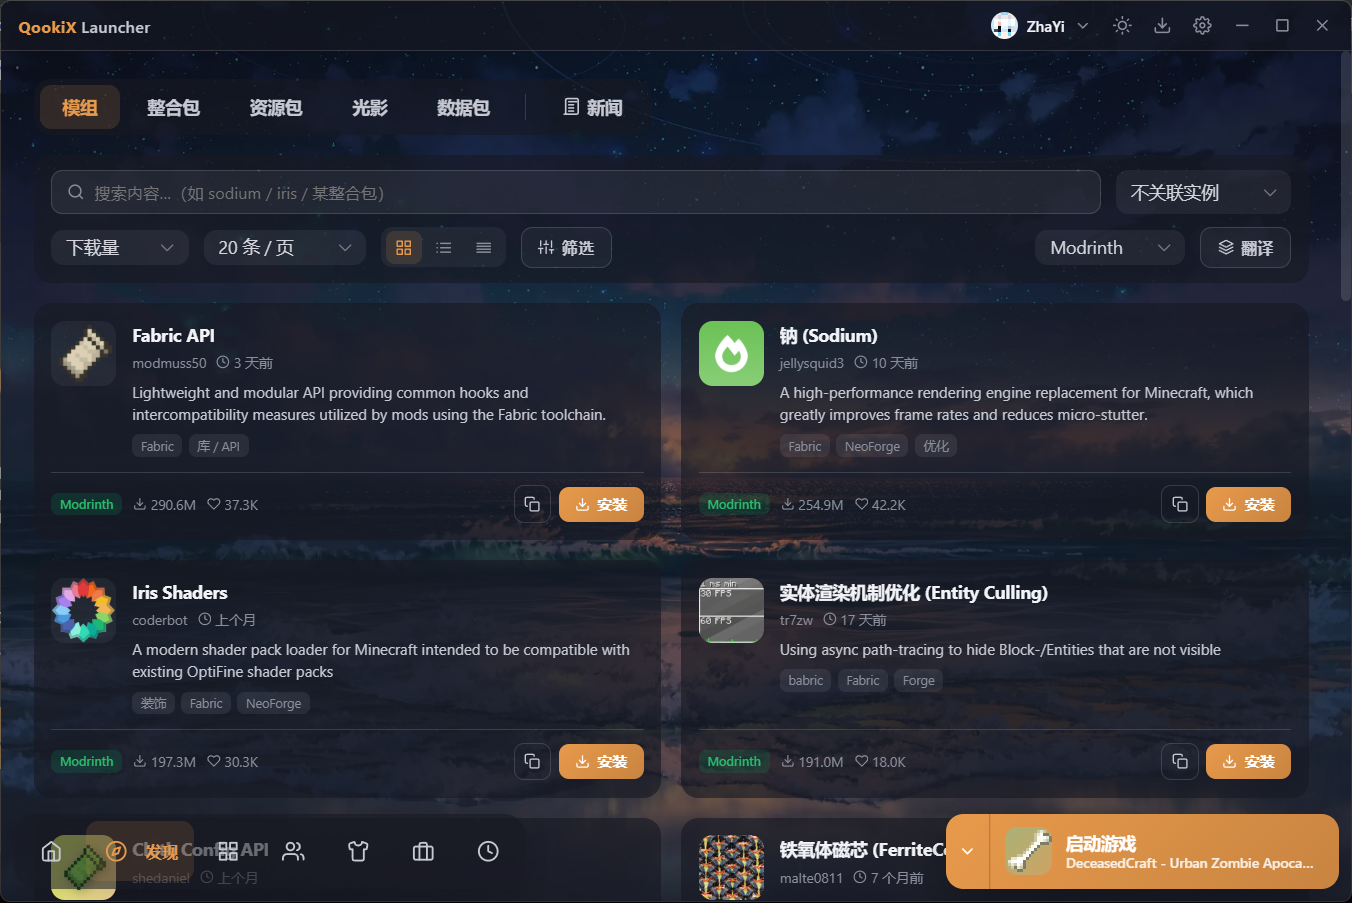
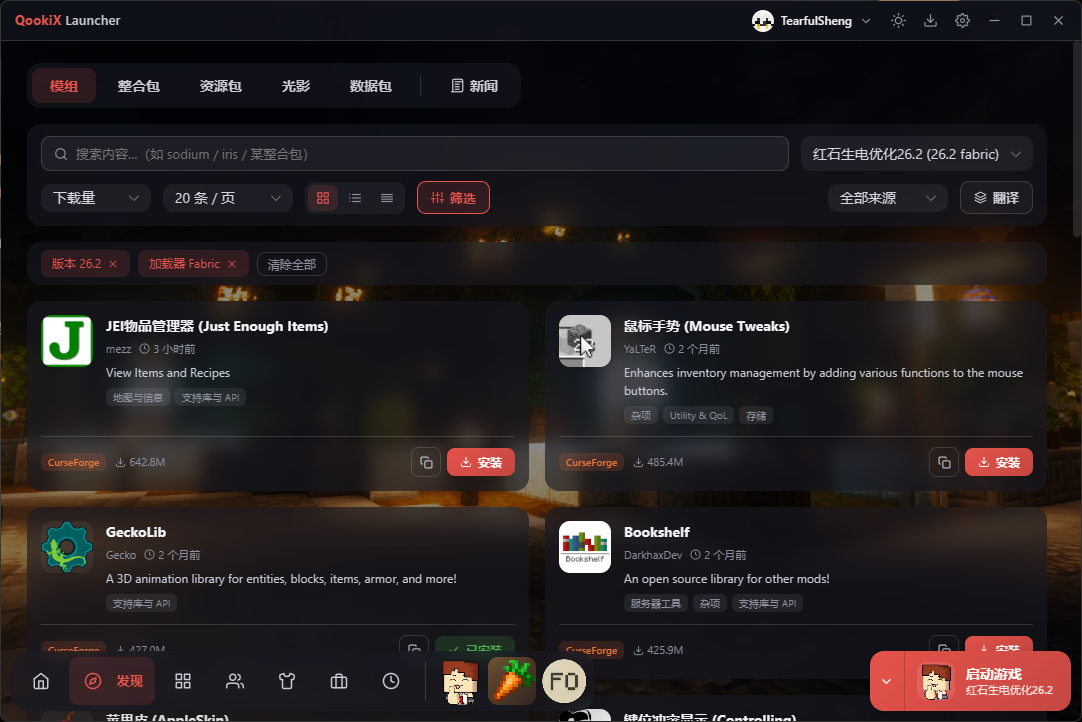
feat[download]: 添加备用下载渠道及更新预览图
在下载区块新增百度网盘和GitHub Releases的备用下载链接，提升国内用户的下载体验。同时补充了中英文国际化翻译，并更新了相关的预览图片资源。

diff --git a/components/sections/DownloadSection.vue b/components/sections/DownloadSection.vue
@@ -55,6 +55,20 @@
           <p>{{ $t('download.error') }}</p>
           <a class="btn btn-primary" :href="REPO_URL + '/releases'" target="_blank" rel="noopener">{{ $t('download.goto_releases') }}</a>
         </div>
+
+        <div class="alt-downloads">
+          <span class="alt-label">{{ $t('download.alt_title') }}</span>
+          <div class="alt-links">
+            <a class="alt-link" :href="BAIDU_PAN_URL" target="_blank" rel="noopener">
+              <Cloud :size="15" />
+              <span>{{ $t('download.alt_baidu') }}</span>
+            </a>
+            <a class="alt-link" :href="REPO_URL + '/releases'" target="_blank" rel="noopener">
+              <Github :size="15" />
+              <span>{{ $t('download.alt_github') }}</span>
+            </a>
+          </div>
+        </div>
       </div>
 
       <a :href="REPO_URL + '/releases'" class="history-link" target="_blank" rel="noopener">
@@ -67,8 +81,10 @@
 
 <script setup lang="ts">
 import { ref, computed, onMounted, type Component } from 'vue'
-import { Monitor, Command, Terminal, Smartphone, Download, ArrowRight } from 'lucide-vue-next'
+import { Monitor, Command, Terminal, Smartphone, Download, ArrowRight, Cloud, Github } from 'lucide-vue-next'
 import { useReleases, REPO_URL, type Platform, type PlatformAsset, type GhRelease, formatDate } from '~/composables/useReleases'
+
+const BAIDU_PAN_URL = 'https://pan.baidu.com/s/5P2JCAYQuXBSRSSueJcbtpg'
 
 const { fetchLatestRelease, fetchAndroidRelease, matchPlatformAssets, probeMirror } = useReleases()
 
@@ -215,6 +231,42 @@ onMounted(async () => {
 }
 .history-link:hover { color: var(--accent); }
 
+.alt-downloads {
+  display: flex;
+  align-items: center;
+  gap: 14px;
+  margin-top: 16px;
+  padding: 14px 20px;
+  border-radius: var(--radius);
+  background: var(--surface);
+  flex-wrap: wrap;
+}
+.alt-label {
+  font-size: var(--fs-sm);
+  font-weight: 600;
+  color: var(--fg-muted);
+  flex: none;
+}
+.alt-links { display: flex; gap: 10px; flex-wrap: wrap; }
+.alt-link {
+  display: inline-flex;
+  align-items: center;
+  gap: 7px;
+  padding: 7px 14px;
+  border-radius: var(--radius);
+  font-size: var(--fs-sm);
+  font-weight: 500;
+  background: var(--tile);
+  color: var(--fg);
+  border: 1px solid var(--border);
+  transition: background 200ms var(--ease), color 200ms var(--ease), border-color 200ms var(--ease);
+}
+.alt-link:hover {
+  background: var(--accent);
+  color: var(--accent-contrast);
+  border-color: var(--accent);
+}
+
 .section-sub {
   color: var(--fg);
   font-size: var(--fs-body);
@@ -236,5 +288,7 @@ onMounted(async () => {
 @media (max-width: 440px) {
   .platform span { display: none; }
   .platform { padding: 10px; }
+  .alt-downloads { gap: 10px; padding: 12px; }
+  .alt-link { padding: 7px 11px; }
 }
 </style>
